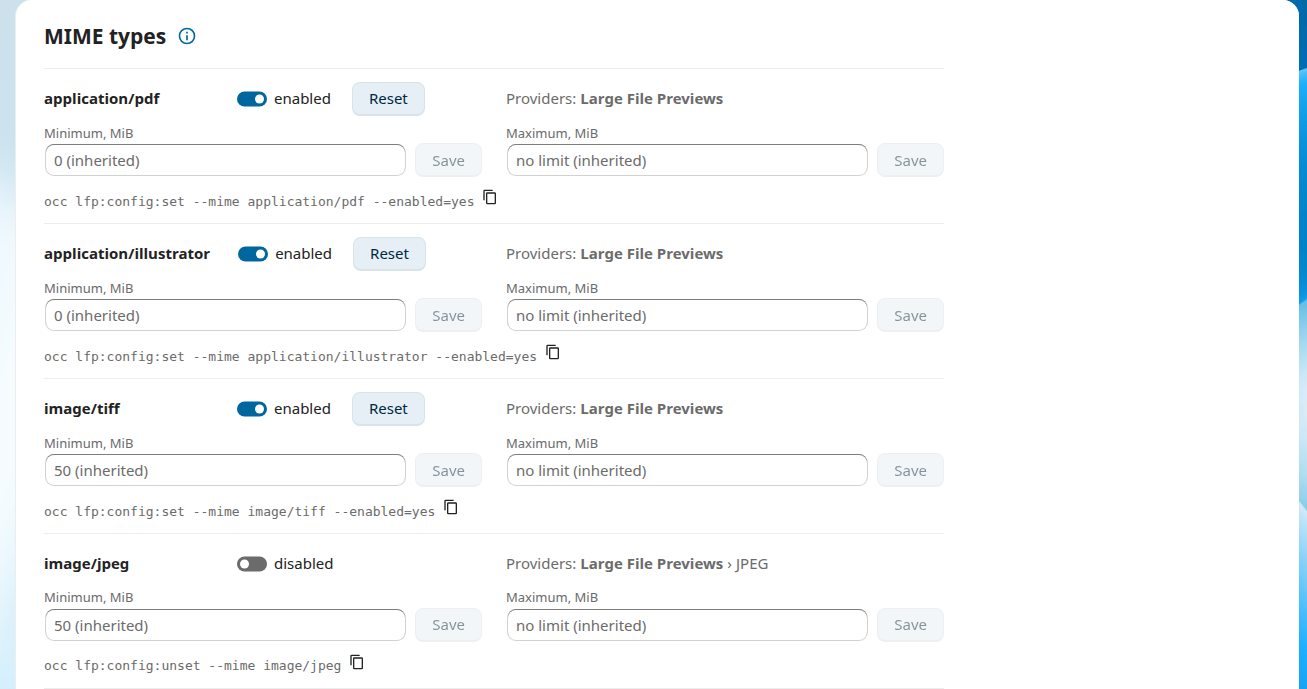
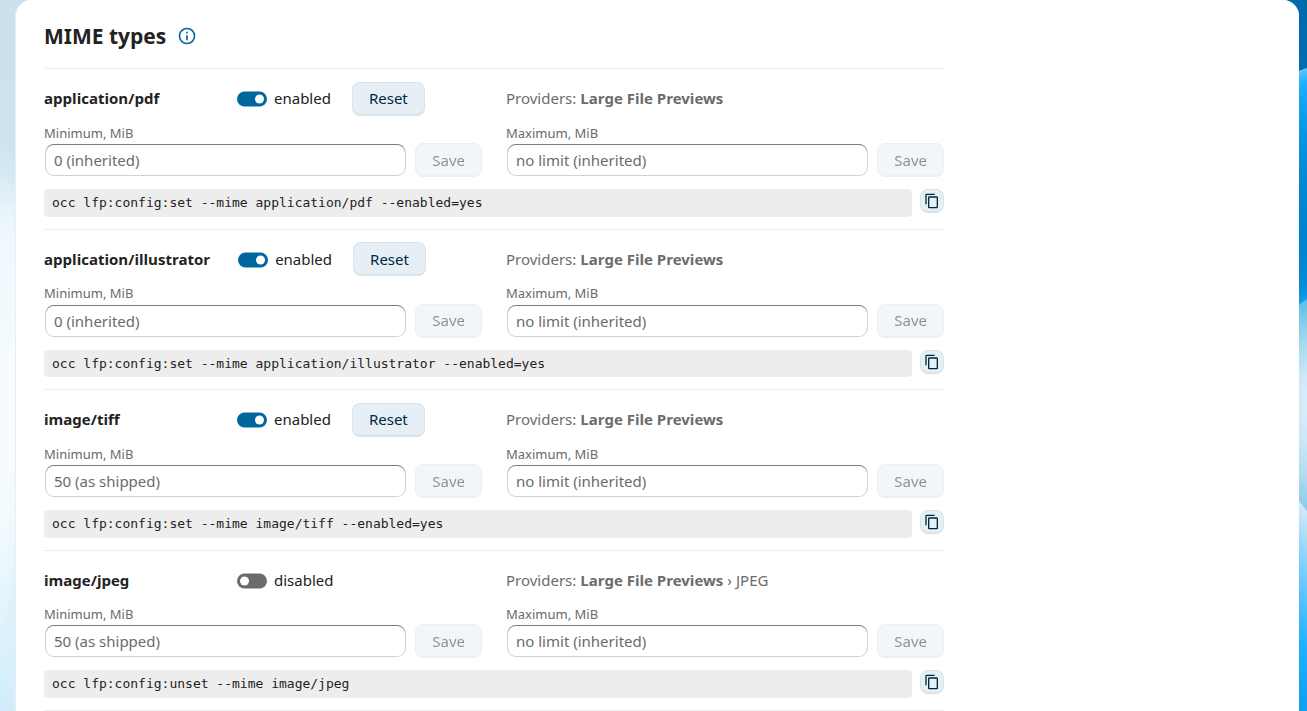
[TASK] Screenshots retaken: the occ boxes, the shipped sizes, the cleared fields
Every shot retaken after Blocks 5 to 9. AP PageResponsive v1.1 Block 10.

Key changes:
- tests/e2e/screenshots.cy.js: the limits down to the file-size cap, the section, each field
  with its label above it, being taller than the viewport
- docs/Screenshots/: Settings, What-Is-Processed, MIME-Types, Extensions and Limits
- No CHANGELOG bullet: neither path ships

diff --git a/tests/e2e/screenshots.cy.js b/tests/e2e/screenshots.cy.js
@@ -171,8 +171,8 @@ describe( 'Screenshots', () => {
 
 	it( 'Limits', () => {
 		openSettings()
-		// Down to the last limit's command: the section goes on with the
-		// failed files.
-		shotBetween( 'Limits', '.lfp-limits', '.lfp-limits .lfp-occ:contains("choom_adjust")' )
+		// Down to the caps' last command: the section, each field with its
+		// label above it, is taller than the viewport.
+		shotBetween( 'Limits', '.lfp-limits', '.lfp-limits .lfp-occ:contains("prlimit_fsize_mb")' )
 	} )
 } )
